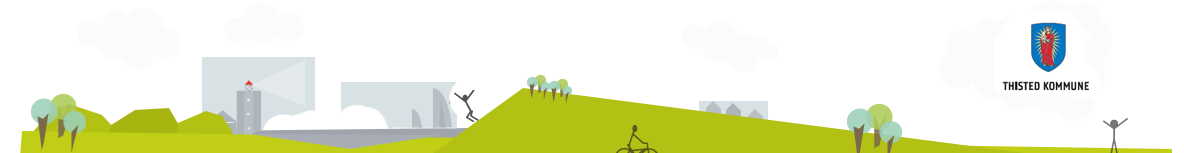
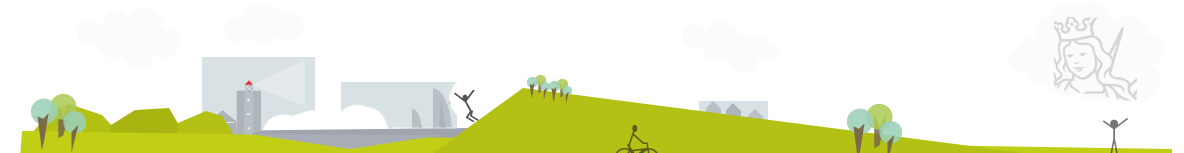
develop - Header, footer and submenu theming.

Changed region(s): [[0.8438, 0.1046, 0.9688, 0.6536]]

diff --git a/css/styles.css b/css/styles.css
@@ -1,7 +1,8 @@
-@import url(http://fonts.googleapis.com/css?family=Source+Sans+Pro:300,400,700,300italic,400italic,700italic);html{height:100%}body{height:100%;background-color:#d7e0e3;color:#353c3e}a:link{color:#d20001}a:visited{color:#850001}a:hover,a:focus{color:#9f0001}.content-wrapper{margin-top:0}.logo{margin-top:40px;max-width:390px;max-height:95px}.logo a{display:block;width:100%}::-moz-selection{color:#fff;background:#580000}::-webkit-selection{color:#fff;background:#580000}::selection{color:#fff;background:#580000}.topbar,.header-wrapper{background:none}.site-header{margin:0 auto;max-width:1184px;width:100%}.topbar{padding-top:0}.topbar-inner{background:url(../images/header.png) 50% 100% no-repeat;background-size:contain}@media only screen and (max-width: 940px){.topbar-inner{min-height:210px}}@media only screen and (min-width: 769px){.topbar-inner{min-height:239px}}
-.topbar-menu{top:40px;bottom:auto}.header-wrapper{overflow:hidden}.header-wrapper .header-inner{padding:0 10px}.header-wrapper .header-inner>section{margin-top:0;padding:0 10px}.header-wrapper .navigation-wrapper{background-color:transparent}.site-header>.header-wrapper,.site-header>.navigation-wrapper{background:url(../images/navigation.png) 50% 50% repeat-y;background-size:contain}.menu-item{color:#fff}.menu-item:hover,.menu-item.active{color:#9f0001}.bottom-bg{max-width:1184px;height:163px;background:url(../images/footer-bg.png) 50% 100% no-repeat}.bottom,.bottom-bg{margin:0 auto;background-size:contain}.bottom{padding:0;min-height:150px;background:#0d0e03 url(../images/footer-bg-bottom.png) 50% 0 no-repeat}.bottom,.bottom a{color:#fff;font-size:110%}.bottom .pane-content{overflow:hidden}.footer{box-sizing:border-box;margin:0 auto;padding:10px;padding-top:40px;max-width:1180px;background-color:transparent;text-align:left}@media only screen and (max-width: 1210px){.footer{margin-right:10px;margin-left:10px}}
-.panel-2col .page-title,.panel-2col .pane-title,.panel-2col .pane-menu-title h2{font-size:30px;font-size:1.875rem;color:#ec3030;font-weight:700;font-style:italic}.front .panel-2col .panel-col-first .pane-title{color:#ec3030}.panel-2col .panel-col-first .pane-title{color:#fff}.panel-2col .panel-col-first ul{margin-top:20px}.panel-2col .panel-col-first ul li{margin-bottom:15px;border:none}.panel-2col .panel-col-first ul li:before{content:""}.panel-2col .panel-col-first ul li a{font-size:18px;font-size:1.125rem;margin-left:0;padding:0;text-transform:uppercase;font-weight:700}.panel-2col .panel-col-first ul li a:hover,.panel-2col .panel-col-first ul li a.active{font-weight:700}.panel-2col .panel-col-last .news-list{margin-right:-25px;margin-left:-25px}.panel-2col .panel-col-last .news-list li{margin-bottom:0;padding-right:25px;padding-left:25px;background-color:#fbfbfb}.panel-2col .panel-col-last .news-list li:nth-of-type(2n+2){background-color:#fff}.panel-2col .panel-col-last .news-list .news-label{border-radius:5px}.panel-2col .panel-col-last .news-list .news-heading a{color:#ec3030;font-weight:700;font-size:80%}.panel-2col .panel-col-last .news-list .news-date{color:#839da6;font-size:80%}.panel-2col .panel-col-last .news-list .news-image-wrapper{max-width:110px}.panel-2col .panel-col-last .news-list .news-heading,.panel-2col .panel-col-last .news-list .news-sub-heading,.panel-2col .panel-col-last .news-list .news-list-content{margin-left:140px}.panel-2col .panel-col-last .group-blocks--wrapper{padding-right:0;padding-left:0}#tabs{margin-top:20px;margin-right:20px;margin-bottom:0;margin-left:20px}.panel-2col .panel-col-last .label,.panel-2col .panel-col-last .news-list .news-label,.news-list .panel-2col .panel-col-last .news-label,.panel-2col .panel-col-last .super-heading .field-name-field-ding-news-library .field-item,.super-heading .field-name-field-ding-news-library .panel-2col .panel-col-last .field-item,.panel-2col .panel-col-last .subjects .subject,.subjects .panel-2col .panel-col-last .subject,.panel-2col .panel-col-last .view-node-search-result .list-item .field-type-taxonomy-term-reference a,.panel-2col .panel-col-last .ting-reference-reverse-list .list-item .field-type-taxonomy-term-reference a,.panel-2col .panel-col-last .subjects .subject,.panel-2col .panel-col-last .news-list .news-label,.panel-2col .panel-col-last .super-heading .field-name-field-ding-news-library .field-item{border-radius:5px}.panel-2col .panel-col-last .news-list .news-label{padding:3px 5px}.topbar-menu .menu-item{background-color:#353c3e;color:#fff}.topbar-menu .menu-item:hover,.topbar-menu .menu-item.active{background-color:#ec3030;color:#fff}.main-menu .menu-item,.secondary-menu .menu-item,.system-user-menu .menu-item{color:#fff}.main-menu .menu-item:hover,.main-menu .menu-item.active,.secondary-menu .menu-item:hover,.secondary-menu .menu-item.active,.system-user-menu .menu-item:hover,.system-user-menu .menu-item.active{color:#9f0001}.main-menu-wrapper{position:relative}@media only screen and (min-width: 769px){.main-menu .expanded .main-menu{position:absolute;display:block;overflow:hidden;width:100%}}@media only screen and (max-width: 768px){.main-menu .expanded .main-menu li{border-top:1px solid rgba(255,255,255,0.25);border-bottom:0}}
-.system-user-menu .menu-item{color:#fff}.navigation-wrapper{width:auto}.navigation-wrapper .main-menu .menu-item{margin-bottom:10px;text-transform:uppercase;font-weight:normal;font-size:80%}@media only screen and (min-width: 769px){.navigation-wrapper .main-menu .main-menu{border-top:1px solid rgba(255,255,255,0.25)}.navigation-wrapper .main-menu .main-menu .menu-item{margin-right:10px;font-size:60%}}@media only screen and (min-width: 769px){.navigation-wrapper .main-menu .menu-item,.navigation-wrapper .secondary-menu .menu-item{padding:0}}.navigation-wrapper .header-wrapper .pane-user-menu .sub-menu li .menu-item{text-transform:uppercase;font-size:80%}@media only screen and (min-width: 769px){.navigation-inner{padding-right:10px;padding-left:10px}}
+@import url(http://fonts.googleapis.com/css?family=Source+Sans+Pro:300,400,700,300italic,400italic,700italic);html{height:100%}body{height:100%;background-color:#d7e0e3;color:#353c3e}a:link{color:#d20001}a:visited{color:#850001}a:hover,a:focus{color:#9f0001}.content-wrapper{margin-top:0}.logo{margin-top:10px;width:242px;height:81px}@media only screen and (max-width: 768px){.logo{margin:0}}.logo a{display:inline-block}::-moz-selection{color:#fff;background:#580000}::-webkit-selection{color:#fff;background:#580000}::selection{color:#fff;background:#580000}.topbar,.header-wrapper{background:none}.site-header{margin:0 auto;max-width:1184px;width:100%}.topbar{padding-top:0}.topbar-inner{background-size:contain !important}@media only screen and (min-width: 769px){.topbar-inner{background:url(../images/header.png) 50% 100% no-repeat}}@media only screen and (max-width: 940px){.topbar-inner{min-height:210px}}@media only screen and (max-width: 768px){.topbar-inner{min-height:260px;background:url(../images/header-mobile.png) 50% 100% no-repeat}}@media only screen and (min-width: 769px){.topbar-inner{min-height:239px}}
+.header-wrapper{overflow:hidden}.header-wrapper .header-inner{padding:0 10px}.header-wrapper .header-inner>section{margin-top:0;padding:0 10px}.header-wrapper .navigation-wrapper{background-color:transparent}.site-header>.header-wrapper,.site-header>.navigation-wrapper{background:url(../images/navigation.png) 50% 50% repeat-y;background-size:contain}.menu-item{color:#fff}.menu-item:hover,.menu-item.active{color:#9f0001}.bottom-bg{max-width:1184px;height:153px;background:url(../images/footer-bg.png) 50% 100% no-repeat}@media only screen and (max-width: 768px){.bottom-bg{background:url(../images/footer-bg-mobile.png) 50% 100% no-repeat}}
+.bottom,.bottom-bg{margin:0 auto;background-size:contain}.bottom{padding:0;min-height:165px;background:#0d0e03 url(../images/footer-bg-bottom.png) 50% 0 no-repeat}@media only screen and (max-width: 768px){.bottom{background:#0d0e03 url(../images/footer-bg-bottom-mobile.png) 50% 0 no-repeat}}.bottom,.bottom a{color:#fff;font-size:110%}.bottom .pane-content{overflow:hidden}.footer{box-sizing:border-box;margin:0 auto;padding:10px;padding-top:40px;max-width:1180px;background-color:transparent;text-align:left}@media only screen and (max-width: 1210px){.footer{margin-right:10px;margin-left:10px}}
+.panel-2col .page-title,.panel-2col .pane-title,.panel-2col .pane-menu-title h2{font-size:30px;font-size:1.875rem;color:#ec3030;font-weight:700;font-style:italic}.front .panel-2col .panel-col-first .pane-title{color:#ec3030}.panel-2col .panel-col-first .pane-title{color:#fff}.panel-2col .panel-col-first ul{margin-top:20px}.panel-2col .panel-col-first ul li{margin-bottom:15px;border:none}.panel-2col .panel-col-first ul li:before{content:""}.panel-2col .panel-col-first ul li a{font-size:18px;font-size:1.125rem;margin-left:0;padding:0;text-transform:uppercase;font-weight:700}.panel-2col .panel-col-first ul li a:hover,.panel-2col .panel-col-first ul li a.active{font-weight:700}.panel-2col .panel-col-last .news-list{margin-right:-25px;margin-left:-25px}.panel-2col .panel-col-last .news-list li{margin-bottom:0;padding-right:25px;padding-left:25px;background-color:#fbfbfb}.panel-2col .panel-col-last .news-list li:nth-of-type(2n+2){background-color:#fff}.panel-2col .panel-col-last .news-list .news-label{border-radius:5px}.panel-2col .panel-col-last .news-list .news-heading a{color:#ec3030;font-weight:700;font-size:80%}.panel-2col .panel-col-last .news-list .news-date{color:#839da6;font-size:80%}.panel-2col .panel-col-last .news-list .news-image-wrapper{max-width:110px}.panel-2col .panel-col-last .news-list .news-heading,.panel-2col .panel-col-last .news-list .news-sub-heading,.panel-2col .panel-col-last .news-list .news-list-content{margin-left:140px}.panel-2col .panel-col-last .group-blocks--wrapper{padding-right:0;padding-left:0}#tabs{margin-top:20px;margin-right:20px;margin-bottom:0;margin-left:20px}.panel-2col .panel-col-last .label,.panel-2col .panel-col-last .news-list .news-label,.news-list .panel-2col .panel-col-last .news-label,.panel-2col .panel-col-last .super-heading .field-name-field-ding-news-library .field-item,.super-heading .field-name-field-ding-news-library .panel-2col .panel-col-last .field-item,.panel-2col .panel-col-last .subjects .subject,.subjects .panel-2col .panel-col-last .subject,.panel-2col .panel-col-last .view-node-search-result .list-item .field-type-taxonomy-term-reference a,.panel-2col .panel-col-last .ting-reference-reverse-list .list-item .field-type-taxonomy-term-reference a,.panel-2col .panel-col-last .subjects .subject,.panel-2col .panel-col-last .news-list .news-label,.panel-2col .panel-col-last .super-heading .field-name-field-ding-news-library .field-item{border-radius:5px}.panel-2col .panel-col-last .news-list .news-label{padding:3px 5px}.topbar-menu{top:40px;bottom:auto}@media only screen and (max-width: 768px){.topbar-menu{position:relative;float:right;width:auto;margin:0;padding:0;top:20px}}.topbar-menu .menu-item{background-color:#353c3e;color:#fff}.topbar-menu .menu-item:hover,.topbar-menu .menu-item.active{background-color:#ec3030;color:#fff}.main-menu .menu-item,.secondary-menu .menu-item,.system-user-menu .menu-item{color:#fff}.main-menu .menu-item:hover,.main-menu .menu-item.active,.secondary-menu .menu-item:hover,.secondary-menu .menu-item.active,.system-user-menu .menu-item:hover,.system-user-menu .menu-item.active{color:#9f0001}.main-menu-wrapper{position:relative}@media only screen and (min-width: 769px){.main-menu .expanded .main-menu{position:absolute;display:block;overflow:hidden;width:100%}}@media only screen and (max-width: 768px){.main-menu .expanded .main-menu li{border-top:1px solid rgba(255,255,255,0.25);border-bottom:0}}
+.system-user-menu .menu-item{color:#fff}.navigation-wrapper{width:auto}.navigation-wrapper .menu-mlid-375>.main-menu{display:block}@media only screen and (min-width: 769px){.navigation-wrapper .menu-mlid-375>.main-menu{position:absolute}}.navigation-wrapper .main-menu .menu-item{margin-bottom:10px;text-transform:uppercase;font-weight:normal;font-size:80%}@media only screen and (min-width: 769px){.navigation-wrapper .main-menu .main-menu{border-top:1px solid rgba(255,255,255,0.25)}.navigation-wrapper .main-menu .main-menu .menu-item{margin-right:10px;font-size:60%}}@media only screen and (min-width: 769px){.navigation-wrapper .main-menu .menu-item,.navigation-wrapper .secondary-menu .menu-item{padding:0}}.navigation-wrapper .header-wrapper .pane-user-menu .sub-menu li .menu-item{text-transform:uppercase;font-size:80%}@media only screen and (min-width: 769px){.navigation-inner{padding-right:10px;padding-left:10px}}
 @media only screen and (max-width: 768px){.main-menu-wrapper,.secondary-menu-wrapper{margin-right:0;margin-left:0;padding:0}}
 .sub-menu>li a{color:#d20001}.sub-menu>li a:hover{color:#9f0001}.sub-menu li:before{color:#d20001}.footer .pane-title{color:#fff}.footer .menu li:before{color:#fff}.footer .menu li a{color:#fff}.footer .menu li a.active{color:#fff}.action-links li{color:#d20001}.action-links li:before{color:#d20001}.search .form-text,.search-field-in-content .form-text,.user .form-text{border-radius:0}.search .form-submit,.search-field-in-content .form-submit,.user .form-submit{border-radius:0}.label,.news-list .news-label,.super-heading .field-name-field-ding-news-library .field-item,.subjects .subject{background-color:#131313;color:#fff}.label a:link,.news-list .news-label a:link,.super-heading .field-name-field-ding-news-library .field-item a:link,.subjects .subject a:link,.label a:visited,.news-list .news-label a:visited,.super-heading .field-name-field-ding-news-library .field-item a:visited,.subjects .subject a:visited,.label a:hover,.news-list .news-label a:hover,.super-heading .field-name-field-ding-news-library .field-item a:hover,.subjects .subject a:hover{color:#fff}.label:link,.news-list .news-label:link,.super-heading .field-name-field-ding-news-library .field-item:link,.subjects .subject:link,.label:visited,.news-list .news-label:visited,.super-heading .field-name-field-ding-news-library .field-item:visited,.subjects .subject:visited{color:#fff}.label:hover,.news-list .news-label:hover,.super-heading .field-name-field-ding-news-library .field-item:hover,.subjects .subject:hover{background-color:#000;color:#e6e6e6}.search-overlay--inner{border-radius:0}.pane-ding-facetbrowser a:visited,.pane-search-backends a:visited{color:#d20001}.pane-search-backends{display:none}#autocomplete{border-radius:0}#autocomplete li a{border-radius:0}.pane-ting-object .collapsible .field-group-format-title:before,.pane-ting-object .ding-periodical-fold:before{color:#d20001}.page-search .availability.pending{background-color:#00b7e7}.page-search .availability.availability.processed{background-color:#00b7e7}.page-search .availability.availability.available{background-color:#00b7e7}.page-search .availability.availability.reservable{background-color:#00b7e7}.page-search .availability.availability.available.reservable{background-color:#00b7e7}.page-search .availability.availability.available.not-reservable{background-color:#369}.page-search .availability.availability.unavailable.reservable{background-color:#00b7e7}.page-search .availability.availability.unavailable.not-reservable{background-color:#369}.availability-legend .available{background-color:#00b7e7}.availability-legend .on-loan{background-color:#00b7e7}.availability-legend .unavailable{background-color:#369}.availability-legend .unreservable{background-color:#369}.header-wrapper .user{padding-right:10px;padding-left:10px}@media only screen and (max-width: 480px){.user .form-item-name,.user .form-item-pass{padding-left:0;padding-right:0}}.user .form-item-name{padding-left:0}.user .form-item-name i{left:14px}.user .form-item-pass{padding-right:0}.rs-carousel{background-color:transparent}.rs-carousel-inner{padding:0;min-height:0;background-color:transparent}.rs-carousel-title{color:#fff}.rs-carousel .rs-carousel-items{padding:24px 20px;background-color:#353c3e}.svg .rs-carousel-items .rs-carousel-item:hover:before{position:absolute;top:50%;left:50%;z-index:10;display:block;margin-top:-21px;margin-left:-21px;width:42px;height:42px;background-image:url(../images/icon-plus.svg);content:"";pointer-events:none}.rs-carousel-mask li .rs-carousel-item-title{display:none}.rs-carousel-mask li:hover .rs-carousel-item-title{position:absolute;top:0;right:0;bottom:0;left:0;display:block;background-color:rgba(0,0,0,0.75);font-weight:500}.rs-carousel-item-image{box-sizing:border-box;overflow:hidden;border:1px solid #fff}.svg .rs-carousel-action-prev,.svg .rs-carousel-action-next{top:50%;overflow:hidden;margin-top:-21px;width:42px;height:42px;background:none;text-indent:100%;white-space:nowrap}.svg .rs-carousel-action-prev{left:30px;background-image:url(../images/icon-left.svg);background-repeat:no-repeat}.svg .rs-carousel-action-next{right:30px;background-image:url(../images/icon-right.svg);background-repeat:no-repeat}@media only screen and (max-width: 768px){.rs-carousel-tabs{padding:0}}.rs-carousel-tabs .rs-carousel-select-tabs{border-radius:0}.rs-carousel-tabs .rs-carousel-list-tabs .rs-carousel-item a{margin-right:0;background-color:#252525}.rs-carousel-tabs .rs-carousel-list-tabs .rs-carousel-item a:hover{background-color:darkred}.rs-carousel-tabs .rs-carousel-list-tabs .rs-carousel-item.active a{background-color:darkred}.rs-carousel-tabs .rs-carousel-list-tabs .rs-carousel-item.active a:before{border-bottom-color:darkred}@media only screen and (max-width: 1210px){.panel-2col{margin-right:0.9%;margin-left:1.1%}}@media only screen and (min-width: 1211px){.panel-2col{margin-right:20px;margin-left:20px}}.panel-2col .panel-col-first,.panel-2col .panel-col-last{box-sizing:border-box;padding:40px 25px 25px 25px}@media only screen and (min-width: 769px){.panel-2col .panel-col-first,.panel-2col .panel-col-last{float:left}}.panel-2col .panel-col-first{background-color:#353c3e;color:#fff}@media only screen and (min-width: 769px){.panel-2col .panel-col-first{width:32%}}.panel-2col .panel-col-last{background-color:#fbfbfb}@media only screen and (min-width: 769px){.panel-2col .panel-col-last{width:68%}}
 .frontpage-layout .layout-wrapper{padding:0}.frontpage-layout .layout-wrapper .kulturrummet-2col-left{color:#fff}.frontpage-layout .layout-wrapper .kulturrummet-2col-left .pane-title{font-size:230%;line-height:1}.frontpage-layout .layout-wrapper .news-list{margin-right:-25px;margin-left:-25px}.frontpage-layout .layout-wrapper .news-list li{margin-bottom:0;padding-right:25px;padding-left:25px;background-color:#fbfbfb}.frontpage-layout .layout-wrapper .news-list li:nth-of-type(2n+2){background-color:#fff}.frontpage-layout .layout-wrapper .news-list .news-label{border-radius:5px}.frontpage-layout .layout-wrapper .news-list .news-heading a{color:#ec3030;font-weight:700;font-size:80%}.frontpage-layout .layout-wrapper .news-list .news-date{color:#839da6;font-size:80%}.frontpage-layout .layout-wrapper .news-list .news-author{display:none}.frontpage-layout .layout-wrapper .news-list .news-image-wrapper{max-width:110px}.frontpage-layout .layout-wrapper .news-list .news-heading,.frontpage-layout .layout-wrapper .news-list .news-sub-heading,.frontpage-layout .layout-wrapper .news-list .news-list-content{margin-left:140px}.frontpage-layout .layout-wrapper .group-blocks--wrapper{padding-right:0;padding-left:0}

diff --git a/sass/_custom.scss b/sass/_custom.scss
@@ -34,13 +34,18 @@ a {
 // Logo
 
 .logo {
-  margin-top: 40px;
-  max-width: 390px;
-  max-height: 95px;
+  margin-top: 10px;
+  width: 242px;
+  height: 81px;
+
+  // Media till-medium
+
+  @include till-medium() {
+    margin: 0;
+  }
 
   a {
-    display: block;
-    width: 100%;
+    display: inline-block;
   }
 }
 
@@ -72,12 +77,26 @@ a {
 
   @at-root {
     .topbar-inner {
+      background-size: contain !important;
+
+      // From medium
+
+      @include from-medium() {
+        background: url(../images/header.png) 50% 100% no-repeat;
+      }
+
+      // Media till-large
 
       @include till-large() {
         min-height: 210px;
       }
-      background: url(../images/header.png) 50% 100% no-repeat;
-      background-size: contain;
+
+      // Media till-medium
+
+      @include till-medium() {
+        min-height: 260px;
+        background: url(../images/header-mobile.png) 50% 100% no-repeat;
+      }
 
       // Media queries
 
@@ -86,11 +105,6 @@ a {
       }
     }
   }
-}
-
-.topbar-menu {
-  top: 40px;
-  bottom: auto;
 }
 
 .header-wrapper {
@@ -128,8 +142,14 @@ a {
 
 .bottom-bg {
   max-width: 1184px;
-  height: 163px;
+  height: 153px;
   background: url(../images/footer-bg.png) 50% 100% no-repeat;
+
+  // Media till-medium
+
+  @include till-medium() {
+    background: url(../images/footer-bg-mobile.png) 50% 100% no-repeat;
+  }
 }
 
 .bottom,
@@ -140,8 +160,14 @@ a {
 
 .bottom {
   padding: 0;
-  min-height: 150px;
+  min-height: 165px;
   background: #0d0e03 url(../images/footer-bg-bottom.png) 50% 0 no-repeat;
+
+  // Media till-medium
+
+  @include till-medium() {
+    background: #0d0e03 url(../images/footer-bg-bottom-mobile.png) 50% 0 no-repeat;
+  }
 
   &,
   a {

diff --git a/sass/framework/_navigation.scss b/sass/framework/_navigation.scss
@@ -2,6 +2,19 @@
 //==========================================================================
 
 .topbar-menu {
+  top: 40px;
+  bottom: auto;
+
+  // Media till-medium
+
+  @include till-medium() {
+    position: relative;
+    float: right;
+    width: auto;
+    margin: 0;
+    padding: 0;
+    top: 20px;
+  }
 
   .menu-item {
     background-color: $color-primary;
@@ -71,6 +84,18 @@
 
 .navigation-wrapper {
   width: auto;
+
+  // Show only submenu for
+
+  .menu-mlid-375 > .main-menu {
+    display: block;
+
+    // Media queries
+
+    @include from-medium() {
+      position: absolute;
+    }
+  }
 
   // Main menu
 

diff --git a/js/kulturrummet.js b/js/kulturrummet.js
@@ -62,7 +62,7 @@
         // Submenu top position.
         function menuHeight() {
           var menu = $('.main-menu-wrapper > .main-menu', context),
-            subMenu = menu.find('.expanded .main-menu'),
+            subMenu = menu.find('.has-children > .main-menu'),
             subMenuTotalHeight = 0;
 
           // Reset height
